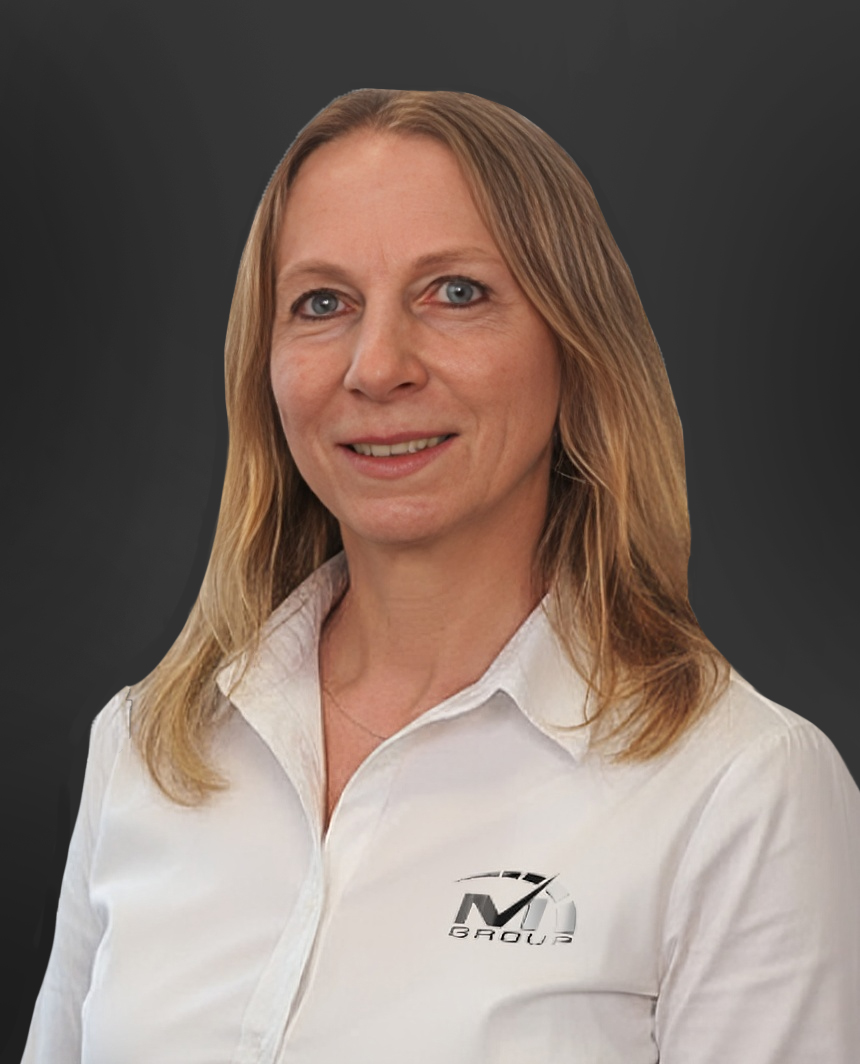
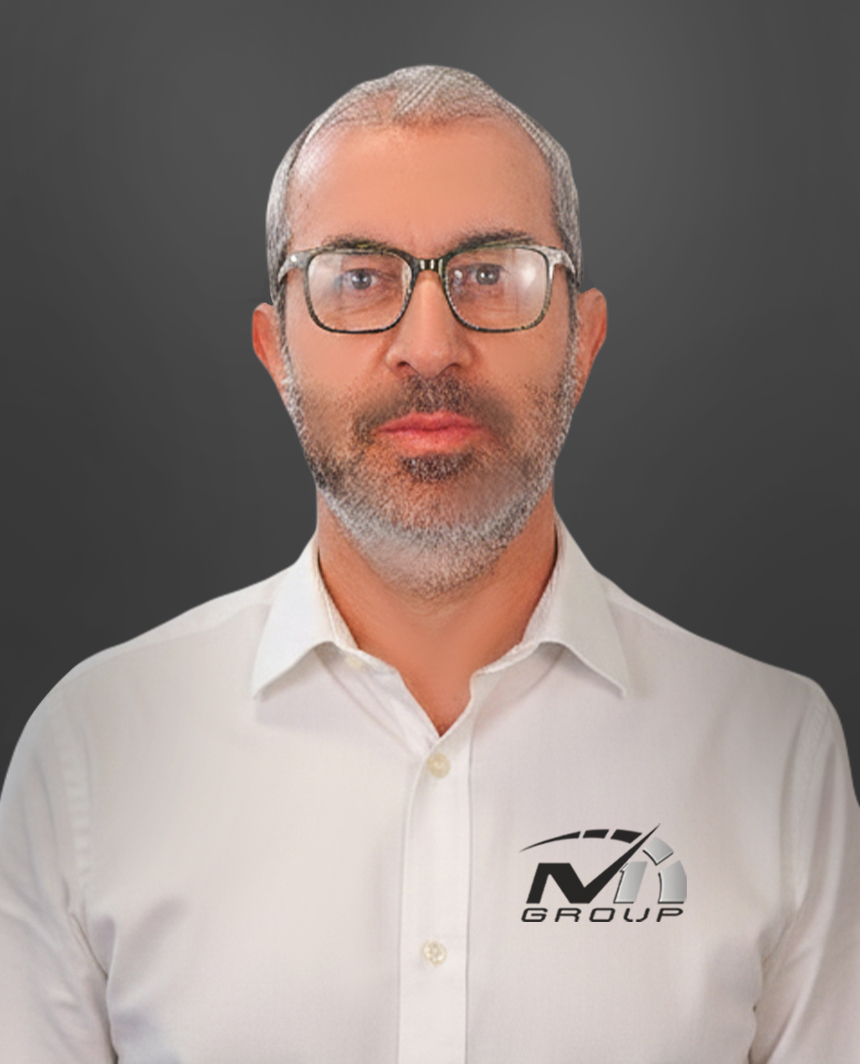
add bus page, fix typo

diff --git a/src/app/class-d/page.jsx b/src/app/class-d/page.jsx
@@ -1,0 +1,175 @@
+import CheckList from "@/components/CheckList";
+import Coaches from "@/components/Coaches";
+import ExpandableInfoCard from "@/components/ExpandableInfoCard";
+import Hero from "@/components/Hero";
+import IconCard from "@/components/IconCard";
+import PageIntro from "@/components/PageIntro";
+import QA from "@/components/QA";
+
+export const metadata = {
+  title: "Führerschein Klasse D - Busfahrer Ausbildung bei M1 Academy",
+  description:
+    "Führerschein Klasse D bei M1 Academy: Busfahrer-Ausbildung, Fahrgastbeförderung, Personenverkehr und professionelle Fahrer. Deine Ausbildung mit erfahrenen Coaches und Fahrsimulator.",
+};
+
+const iconCardData = [
+  {
+    icon: "/img/Mindestalter24.png",
+    title: "Mindestalter: 24 (oder 21 mit Grundqualifikation)",
+  },
+  {
+    icon: "/img/VoraussetzungD.png",
+    title: "Voraussetzung: Führerschein Klasse B",
+  },
+  {
+    icon: "/img/Getriebe3.png",
+    title: "Manuell oder Automatik",
+  },
+  {
+    icon: "/img/Fahrzeugtyp.png",
+    title: "Fahrzeugtyp: Kraftomnibusse mit mehr als 8 Fahrgastplätzen",
+  },
+  {
+    icon: "/img/Einsatzbereich.png",
+    title: "Einsatzbereich: Personenverkehr, ÖPNV, Reisebus",
+  },
+  {
+    icon: "/img/Prüfungstypen2.png",
+    title: "Prüfung: Theorie und Praxis",
+  },
+];
+
+const expandableInfoCardData = [
+  {
+    title: "Klasse D – Busführerschein",
+    description:
+      "Die Klasse D erlaubt das Führen von Kraftomnibussen mit mehr als 8 Fahrgastplätzen – ideal für alle, die beruflich im Personenverkehr tätig sind und Verantwortung für ihre Fahrgäste übernehmen möchten.",
+    requirements: [
+      "Mindestalter: 24 Jahre",
+      "Gültiger Führerschein Klasse B",
+      "Körperliche und geistige Eignung",
+      "Keine schwerwiegenden Verkehrsverstöße",
+    ],
+    training: [
+      "Theorie: Verkehrsregeln, Fahrerpflichten und Notfallsicherheit im Personenverkehr",
+      "Praxis: Fahrbetrieb, Rangieren und Fahrgastmanagement",
+      "Übungsstunden: Je nach Lernfortschritt",
+    ],
+    highlights: [],
+  },
+  {
+    title: "Klasse D mit Schlüsselzahl 95 (Berufskraftfahrer)",
+    description:
+      "Erforderlich für alle Personen, die eine gewerbliche Tätigkeit im Personentransport aufnehmen oder ausüben möchten – z. B. als Busfahrer im ÖPNV oder Reiseverkehr.",
+    requirements: [
+      "Mindestalter: 24 Jahre (21 Jahre bei beschleunigter Grundqualifikation)",
+      "Führerschein: Gültiger Führerschein der Klasse D",
+      "Zuverlässigkeit: Keine schwerwiegenden Verkehrs- oder Straftaten",
+      "Sprachkenntnisse: Ausreichende Deutschkenntnisse für Theorie, Prüfung und Berufsalltag",
+      "Gesundheitliche Eignung: Ärztliches und augenärztliches Gutachten",
+      "Grundqualifikation / Weiterbildung nach BKrFQG",
+    ],
+    training: [
+      "Erweiterte theoretische Schulung",
+      "Pflicht für den gewerblichen Einsatz",
+      "EU-weit anerkannt",
+    ],
+    highlights: [],
+  },
+];
+
+const checkListData = [
+  { title: "Anerkannter amtlicher Ausweis (Personalausweis oder Reisepass)" },
+  { title: "Nachweis über den Erste-Hilfe-Kurs" },
+  { title: "Biometrisches Passfoto" },
+  { title: "Führerschein Klasse B" },
+  { title: "Sehtestbescheinigung" },
+  { title: "Ärztliches und augenärztliches Gutachten" },
+  {
+    title:
+      "Mindestalter bei Anmeldung erreicht (mind. 24 Jahre oder 21 mit beschleunigter Grundqualifikation)",
+  },
+];
+
+const getQAData = async () => {
+  var url = new URL(`https://api.drivem1.de/website/faqs/`);
+
+  const res = await fetch(url, {
+    cache: "no-store",
+    method: "GET",
+    headers: {
+      "Content-Type": "application/json",
+    },
+    // cache: "force-cache",
+    // next: { tags: ["blog-posts"] },
+  });
+
+  if (res.ok) {
+    const data = await res.json();
+    return data;
+  }
+  return notFound();
+};
+
+const getCoachesData = async () => {
+  var url = new URL(`https://api.drivem1.de/website/employees/`);
+
+  const res = await fetch(url, {
+    cache: "no-store",
+    method: "GET",
+    headers: {
+      "Content-Type": "application/json",
+    },
+    // cache: "force-cache",
+    // next: { tags: ["blog-posts"] },
+  });
+
+  if (res.ok) {
+    const data = await res.json();
+    return data;
+  }
+  return notFound();
+};
+
+const page = async () => {
+  const CoachesDataReq = getCoachesData();
+  const QADataReq = getQAData();
+
+  const [coachesData, qaData] = await Promise.all([CoachesDataReq, QADataReq]);
+
+  return (
+    <main id="class-page">
+      <Hero
+        img={"/img/classd-hero.jpg"}
+        title={"Führerschein Klasse D"}
+        subtitle={"Du fährst nicht nur einen Bus. Du trägst Verantwortung für alle."}
+      />
+
+      <PageIntro
+        title={"Das D steht für Deine Fahrgäste."}
+        description={
+          "Der Führerschein der Klasse D berechtigt zum Führen von Kraftomnibussen mit mehr als 8 Fahrgastplätzen – ideal für alle, die beruflich im Personenverkehr unterwegs sind und Verantwortung für ihre Fahrgäste übernehmen wollen."
+        }
+        cta={"JETZT ANMELDEN"}
+        link={"/contact"}
+      />
+
+      <IconCard title={"Schnelle Fakten zur Klasse D"} data={iconCardData} />
+
+      <ExpandableInfoCard data={expandableInfoCardData} />
+
+      <CheckList
+        title={"Das Zeug dazu hast du schon. Folgendes holen wir uns gemeinsam:"}
+        data={checkListData}
+        cta={"JETZT ANMELDEN"}
+        link="/contact"
+      />
+
+      <QA data={qaData} title={"Häufig gestellte Fragen"} />
+
+      <Coaches data={coachesData} />
+    </main>
+  );
+};
+
+export default page;

diff --git a/src/app/_home/Index.jsx b/src/app/_home/Index.jsx
@@ -253,7 +253,7 @@ const Index = async () => {
             <p>TRAKTOR</p>
             <RoundArrowLeftUpBold color="white" className="cta-icon" size={34} />
           </Link>
-          <Link href={"/#"} className="card flex-col">
+          <Link href={"/class-d"} className="card flex-col">
             <svg
               xmlns="http://www.w3.org/2000/svg"
               width="80"

diff --git a/src/app/impressum/page.jsx b/src/app/impressum/page.jsx
@@ -76,7 +76,7 @@ const page = () => {
           <strong>Verantwortlich für den Inhalt nach § 18 Abs. 2 MStV:</strong>
           <p>
             Julian Bouraoui <br />
-            Kreillerstraße 103 <br />
+            Ammerlandstraße 1 <br />
             81825 München
           </p>
         </section>

diff --git a/src/layout/Header.jsx b/src/layout/Header.jsx
@@ -32,6 +32,7 @@ const Header = () => {
     { href: "/class-a", label: "MOTORRAD" },
     { href: "/class-c", label: "Lkw" },
     { href: "/class-l", label: "TRAKTOR" },
+    { href: "/class-d", label: "BUS" },
   ];
 
   const servicesMenu = [
